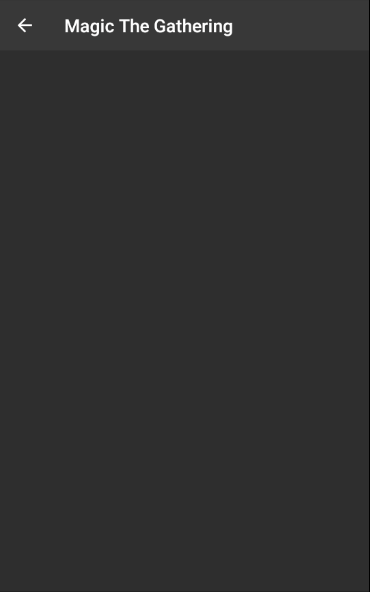
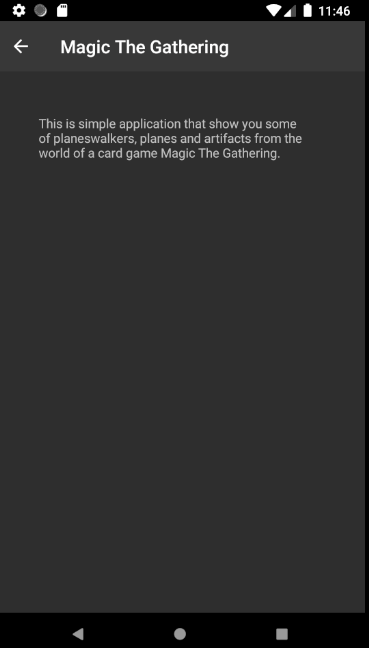
Uzupelnienie brakow

Changed region(s): [[0.0, 0.0, 1.0, 1.0], [0.0894, 0.1824, 0.8347, 0.2432]]

diff --git a/app/src/main/java/com/example/lab4/Artifact.java b/app/src/main/java/com/example/lab4/Artifact.java
@@ -1,0 +1,45 @@
+package com.example.lab4;
+
+public class Artifact {
+    private String name;
+    private String description;
+    private int imageResourceId;
+
+    public static final Artifact[] artifacts = {
+            new Artifact("Chain Veil",
+                    "It was created to turn someone into a vessel for the resurrection of the long-dead Onakke." +
+                            " It kills its users if they're not strong enough. Others, like Ob Nixilis, are turned into a demon." +
+                            " It masks the wearer's soul from those who would take it.",
+                    R.drawable.chain_veil),
+            new Artifact("Immortal Sun",
+                    "The Immortal Sun is rumored to be more valuable and powerful than any other artifact in existence," +
+                            " promising boundless wealth, the strength of the empire, command over nature, and eternal life. The history of the Immortal Sun is a history of its misuse by mortals.",
+                    R.drawable.immortal_sun),
+            new Artifact("Sword of the Realms",
+                    "The Sword of the Realms is a weapon from Kaldheim created from tyrite by the god Halvar. It is capable of cutting through the Cosmos itself. ",
+                    R.drawable.sword),
+    };
+
+    private Artifact(String name, String description, int imageResourceId){
+        this.name = name;
+        this.description = description;
+        this.imageResourceId = imageResourceId;
+    }
+
+    public String getName() {
+        return name;
+    }
+
+    public String getDescription() {
+        return description;
+    }
+
+    public int getImageResourceId() {
+        return imageResourceId;
+    }
+
+    public String toString() {
+        return this.name;
+    }
+
+}

diff --git a/app/src/main/java/com/example/lab4/ArtifactsCategoryActivity.java b/app/src/main/java/com/example/lab4/ArtifactsCategoryActivity.java
@@ -1,0 +1,48 @@
+package com.example.lab4;
+
+import androidx.appcompat.app.AppCompatActivity;
+import androidx.appcompat.widget.Toolbar;
+
+import android.content.Intent;
+import android.os.Bundle;
+import android.view.View;
+import android.widget.AdapterView;
+import android.widget.ArrayAdapter;
+import android.widget.ListView;
+
+public class ArtifactsCategoryActivity extends AppCompatActivity {
+
+    @Override
+    protected void onCreate(Bundle savedInstanceState) {
+        super.onCreate(savedInstanceState);
+        setContentView(R.layout.activity_artifacts_category);
+
+        Toolbar toolbar = findViewById(R.id.toolbar);
+        setSupportActionBar(toolbar);
+
+        ArrayAdapter<Artifact> listAdapter = new ArrayAdapter<>(
+                this,
+                android.R.layout.simple_list_item_1,
+                Artifact.artifacts
+        );
+        ListView listArtifacts = findViewById(R.id.list_planes);
+        listArtifacts.setAdapter(listAdapter);
+
+        AdapterView.OnItemClickListener itemClickListener = new AdapterView.OnItemClickListener(){
+            public void onItemClick(AdapterView<?> listArtifacts,
+                                    View itemView,
+                                    int position,
+                                    long id) {
+                //Pass the drink the user clicks on to DrinkActivity
+                Intent intent = new Intent(ArtifactsCategoryActivity.this,
+                        ArtifactActivity.class);
+                intent.putExtra(ArtifactActivity.EXTRA_DRINKID, (int) id);
+                startActivity(intent);
+            }
+        };
+        //Assign the listener to the list view
+        listArtifacts.setOnItemClickListener(itemClickListener);
+    }
+
+
+}

diff --git a/app/src/main/java/com/example/lab4/Plane.java b/app/src/main/java/com/example/lab4/Plane.java
@@ -1,0 +1,45 @@
+package com.example.lab4;
+
+public class Plane {
+    private String name;
+    private String description;
+    private int imageResourceId;
+
+    public static final Plane[] planes = {
+            new Plane("Dominaria",
+                    "Dominaria is a plane whose name means \"Song of Dominia\". Nicol Bolas once claimed that he had coined this name himself." +
+                            " Dominaria was the Nexus of the Multiverse before the Mending. It is the setting for the majority of Magic storylines.",
+                    R.drawable.dominaria),
+            new Plane("Innistrad",
+                    "Innistrad is a plane. It takes its inspiration from Gothic fiction set in 18th and 19th century North Eastern Europe. ",
+                    R.drawable.innistrad),
+            new Plane("Ravnica",
+                    "Ravnica is a plane whose main planet is covered in a large city, known as Ravnica. It takes its flavor from that" +
+                            " of Eastern Europe. Ravnica is the setting of the Ravnica block, Return to Ravnica block and Guilds of Ravnica, Ravnica " +
+                            "Allegiance, and War of the Spark expansions.",
+                    R.drawable.ravnica),
+    };
+
+    private Plane(String name, String description, int imageResourceId){
+        this.name = name;
+        this.description = description;
+        this.imageResourceId = imageResourceId;
+    }
+
+    public String getName() {
+        return name;
+    }
+
+    public String getDescription() {
+        return description;
+    }
+
+    public int getImageResourceId() {
+        return imageResourceId;
+    }
+
+    public String toString() {
+        return this.name;
+    }
+
+}

diff --git a/app/src/main/java/com/example/lab4/PlanesCategoryActivity.java b/app/src/main/java/com/example/lab4/PlanesCategoryActivity.java
@@ -1,0 +1,48 @@
+package com.example.lab4;
+
+import androidx.appcompat.app.AppCompatActivity;
+import androidx.appcompat.widget.Toolbar;
+
+import android.content.Intent;
+import android.os.Bundle;
+import android.view.View;
+import android.widget.AdapterView;
+import android.widget.ArrayAdapter;
+import android.widget.ListView;
+
+public class PlanesCategoryActivity extends AppCompatActivity {
+
+    @Override
+    protected void onCreate(Bundle savedInstanceState) {
+        super.onCreate(savedInstanceState);
+        setContentView(R.layout.activity_planes_category);
+
+        Toolbar toolbar = findViewById(R.id.toolbar);
+        setSupportActionBar(toolbar);
+
+        ArrayAdapter<Plane> listAdapter = new ArrayAdapter<>(
+                this,
+                android.R.layout.simple_list_item_1,
+                Plane.planes
+        );
+        ListView listPlanes = findViewById(R.id.list_planes);
+        listPlanes.setAdapter(listAdapter);
+
+        AdapterView.OnItemClickListener itemClickListener = new AdapterView.OnItemClickListener(){
+            public void onItemClick(AdapterView<?> listPlanes,
+                                    View itemView,
+                                    int position,
+                                    long id) {
+                //Pass the drink the user clicks on to DrinkActivity
+                Intent intent = new Intent(PlanesCategoryActivity.this,
+                        PlaneActivity.class);
+                intent.putExtra(PlaneActivity.EXTRA_DRINKID, (int) id);
+                startActivity(intent);
+            }
+        };
+        //Assign the listener to the list view
+        listPlanes.setOnItemClickListener(itemClickListener);
+    }
+
+
+}

diff --git a/app/src/main/java/com/example/lab4/MainActivity.java b/app/src/main/java/com/example/lab4/MainActivity.java
@@ -26,9 +26,19 @@ import android.widget.ListView;
         AdapterView.OnItemClickListener itemClickListener = new AdapterView.OnItemClickListener() {
             @Override
             public void onItemClick(AdapterView<?> parent, View view, int position, long id) {
-                if (position == 0 ){
-                    Intent intent = new Intent(MainActivity.this, PlaneswalkerCategoryActivity.class);
-                    startActivity(intent);
+                switch (position){
+                    case 0:
+                        Intent intent = new Intent(MainActivity.this, PlaneswalkerCategoryActivity.class);
+                        startActivity(intent);
+                        break;
+                    case 1:
+                        Intent intentPlane = new Intent(MainActivity.this, PlanesCategoryActivity.class);
+                        startActivity(intentPlane);
+                        break;
+                    case 2:
+                        Intent intentArtifact = new Intent(MainActivity.this, ArtifactsCategoryActivity.class);
+                        startActivity(intentArtifact);
+                        break;
                 }
             }
         };

diff --git a/app/src/main/java/com/example/lab4/ArtifactActivity.java b/app/src/main/java/com/example/lab4/ArtifactActivity.java
@@ -1,0 +1,35 @@
+package com.example.lab4;
+
+import androidx.appcompat.app.AppCompatActivity;
+import androidx.appcompat.widget.Toolbar;
+
+import android.os.Bundle;
+import android.widget.ImageView;
+import android.widget.TextView;
+
+public class ArtifactActivity extends AppCompatActivity {
+
+
+    public static final String EXTRA_DRINKID =  "drinkNo";
+
+    @Override
+    protected void onCreate(Bundle savedInstanceState) {
+        super.onCreate(savedInstanceState);
+        setContentView(R.layout.activity_plane);
+
+        Toolbar toolbar = (Toolbar) findViewById(R.id.toolbar);
+        setSupportActionBar(toolbar);
+        int drinkNo = (Integer)getIntent().getExtras().get(EXTRA_DRINKID);
+        Artifact artifact = Artifact.artifacts[drinkNo];
+
+        ImageView photo = findViewById(R.id.photo);
+        photo.setImageResource(artifact.getImageResourceId());
+        photo.setContentDescription(artifact.getName());
+
+        TextView name = findViewById(R.id.name);
+        name.setText(artifact.getName());
+
+        TextView description = (TextView)findViewById(R.id.descritpions);
+        description.setText(artifact.getDescription());
+    }
+}

diff --git a/app/src/main/java/com/example/lab4/PlaneActivity.java b/app/src/main/java/com/example/lab4/PlaneActivity.java
@@ -1,0 +1,35 @@
+package com.example.lab4;
+
+import androidx.appcompat.app.AppCompatActivity;
+import androidx.appcompat.widget.Toolbar;
+
+import android.os.Bundle;
+import android.widget.ImageView;
+import android.widget.TextView;
+
+public class PlaneActivity extends AppCompatActivity {
+
+
+    public static final String EXTRA_DRINKID =  "drinkNo";
+
+    @Override
+    protected void onCreate(Bundle savedInstanceState) {
+        super.onCreate(savedInstanceState);
+        setContentView(R.layout.activity_plane);
+
+        Toolbar toolbar = (Toolbar) findViewById(R.id.toolbar);
+        setSupportActionBar(toolbar);
+        int drinkNo = (Integer)getIntent().getExtras().get(EXTRA_DRINKID);
+        Plane plane = Plane.planes[drinkNo];
+
+        ImageView photo = findViewById(R.id.photo);
+        photo.setImageResource(plane.getImageResourceId());
+        photo.setContentDescription(plane.getName());
+
+        TextView name = findViewById(R.id.name);
+        name.setText(plane.getName());
+
+        TextView description = (TextView)findViewById(R.id.descritpions);
+        description.setText(plane.getDescription());
+    }
+}
